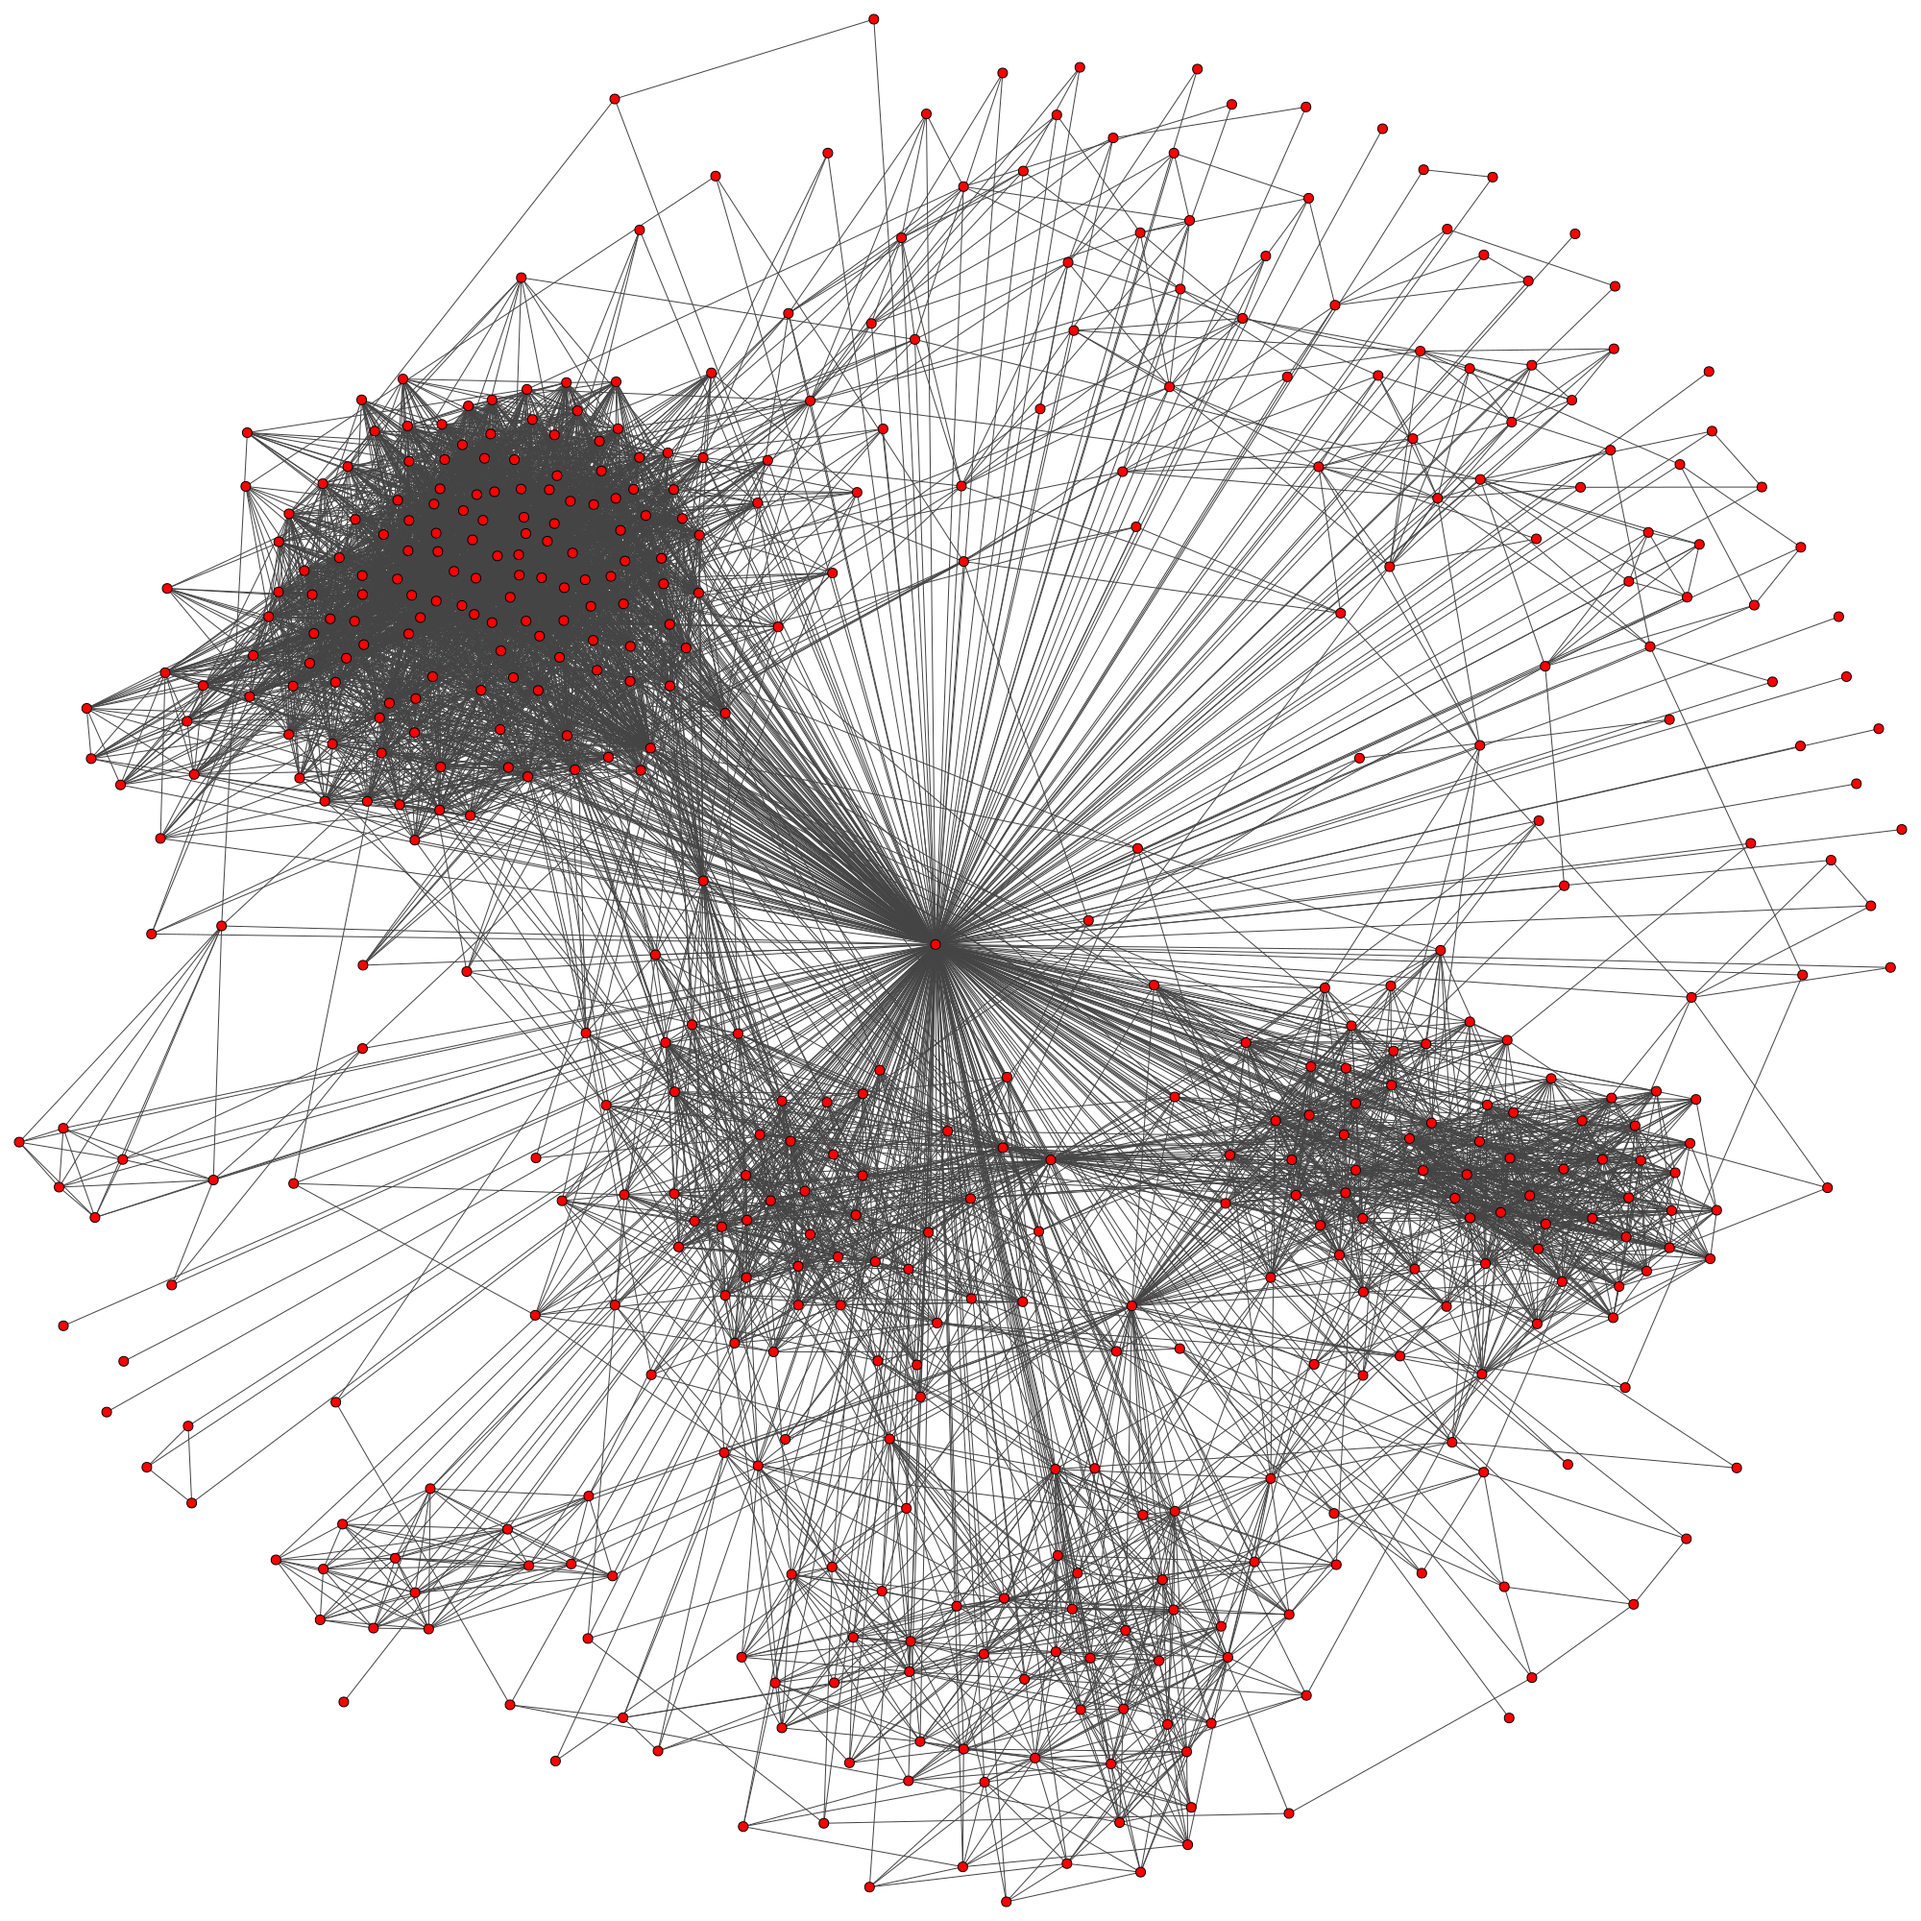
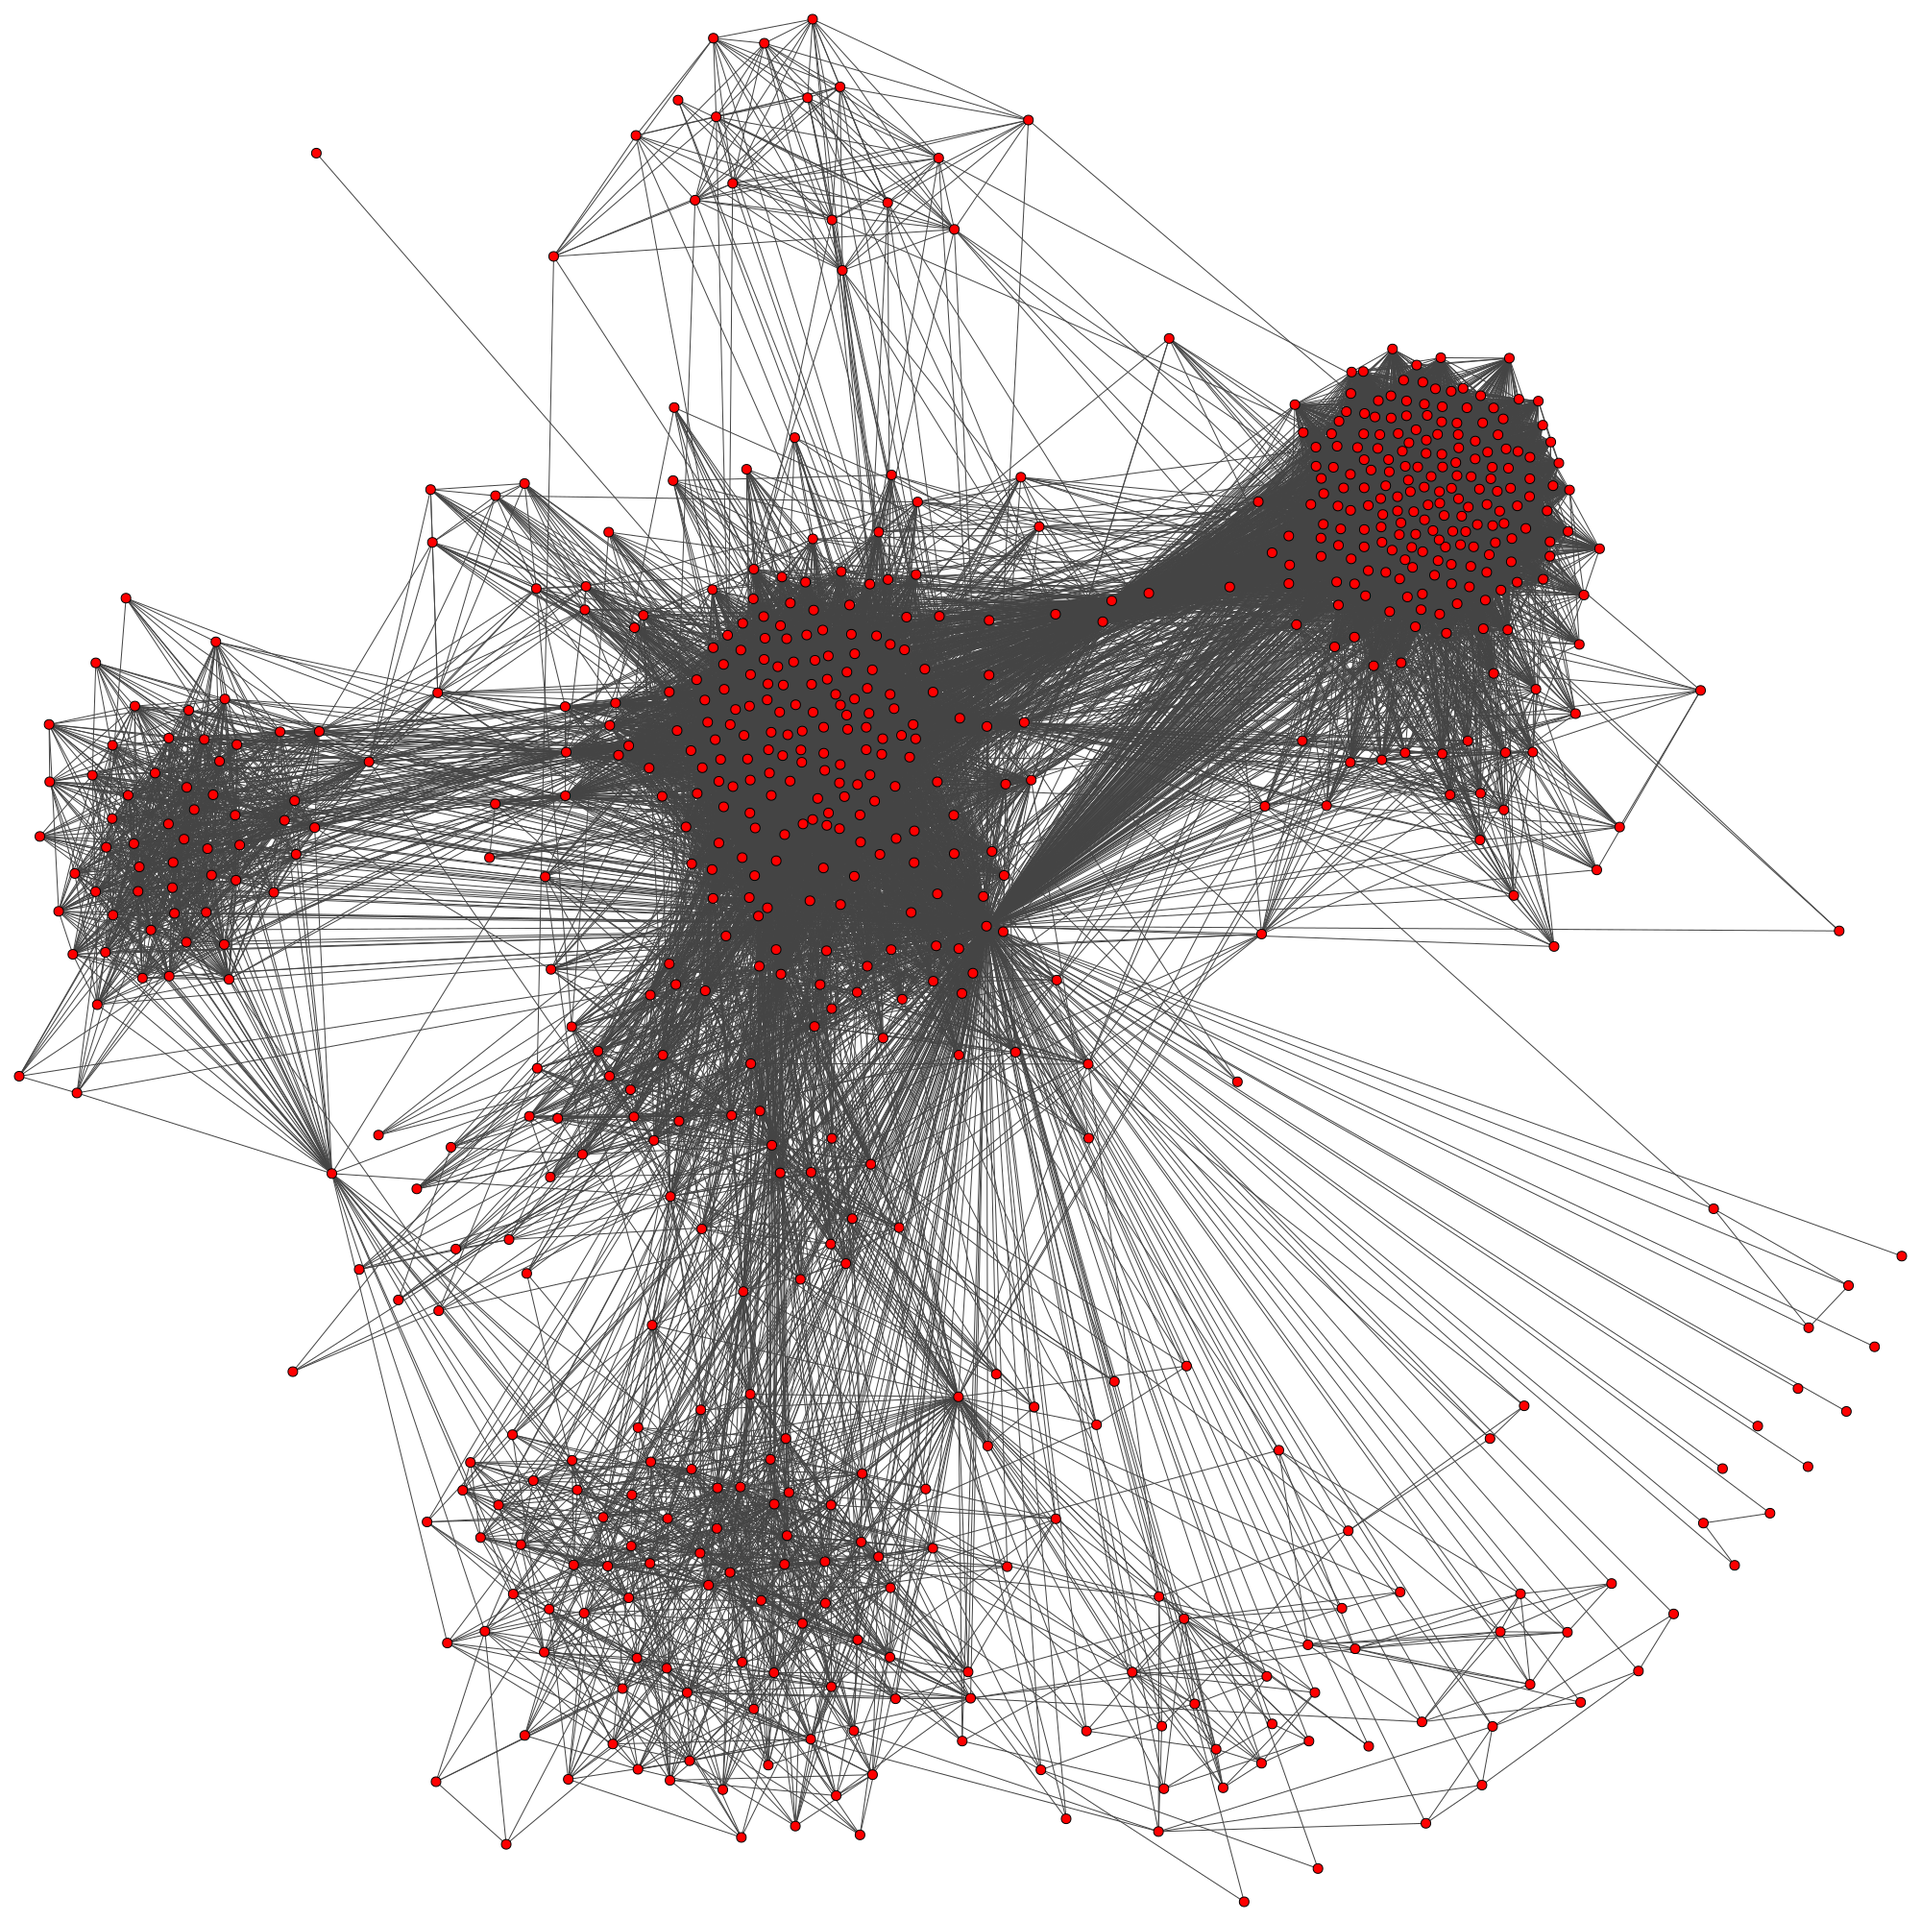
Implemented dynamic plot

diff --git a/Graph/graph.py b/Graph/graph.py
@@ -1,8 +1,13 @@
 import matplotlib.pyplot as plt
+from matplotlib import cm
 import igraph as ig
 import random
 from enum import Enum
 import math
+import os
+from PIL import Image
+import glob
+from pyvis.network import Network
 
 
 def cost_seed_set(S, cost):
@@ -14,6 +19,7 @@ def cost_seed_set(S, cost):
     :return: The total cost of the seed set.
     """
     return sum(cost(u) for u in S)
+
 
 def marginal_gain(v, S, fi):
     """
@@ -29,6 +35,8 @@ def marginal_gain(v, S, fi):
     return fi(S_with_v) - fi(S)
 
 # Seleziona il nodo che ha un rapporto marginal gain / costo del nodo  migliore
+
+
 def argmax(V, S, f, cost_function, **kwargs):
     """
     Select the node with the highest marginal gain to cost ratio.
@@ -41,6 +49,7 @@ def argmax(V, S, f, cost_function, **kwargs):
     :return: The node with the best marginal gain / cost ratio.
     """
     return max(set(V) - S, key=lambda v: marginal_gain(v, S, f) / cost_function(v, **kwargs))
+
 
 def get_subgraph(graph: ig.Graph, number: int):
     """
@@ -78,7 +87,7 @@ class Graph:
         F2 = 2
         F3 = 3
 
-    def __init__(self, filePath: str, budget: int, save_path:str, is_sub_graph=True, sub_graph_dim=100):
+    def __init__(self, filePath: str, budget: int, save_path: str, is_sub_graph=True, sub_graph_dim=100):
         """
         Initialize a Graph object with a graph loaded from a file.
 
@@ -93,7 +102,7 @@ class Graph:
 
         self.graph = self.full_graph
 
-        if is_sub_graph :
+        if is_sub_graph:
             self.graph = get_subgraph(self.full_graph, sub_graph_dim)
 
         if budget > self.graph.vcount():
@@ -127,7 +136,8 @@ class Graph:
         :raises TypeError: If nodeLabel is not an integer.
         """
         if not isinstance(nodeLabel, int):
-            raise TypeError(f"COst func degree type mismatch -> nodeLabel is {type(nodeLabel)}")
+            raise TypeError(
+                f"COst func degree type mismatch -> nodeLabel is {type(nodeLabel)}")
         node = self.graph.vs.find(name=nodeLabel)
         return node.degree() / 2
 
@@ -220,7 +230,7 @@ class Graph:
 
         # Calculate the seed set
         V = self.graph.vs["name"]
-        #print(f"Node set: {V}")
+        # print(f"Node set: {V}")
         # Insieme S_p=S_d=Empty
         S_p = set()
         S_d = set()
@@ -258,20 +268,23 @@ class Graph:
             case _:
                 return
 
-        #select_threshold = 1 #TODO: Define functions
+        # select_threshold = 1 #TODO: Define functions
 
-        #thresholds = {v.index: max(1, self.graph.degree(v) // 2) for v in self.graph.vs}
+        # thresholds = {v.index: max(1, self.graph.degree(v) // 2) for v in self.graph.vs}
 
         V = self.graph.vs["name"]
 
         U = set(V)
         S = set()
-        thresholds = {v: max(1, self.graph.vs.find(name=v).degree() // 2) for v in V}
+        thresholds = {v: max(1, self.graph.vs.find(
+            name=v).degree() // 2) for v in V}
 
         # Stato dinamico
-        delta = {v: self.graph.vs.find(name=v).degree() for v in V}  # δ(v) -> grado
+        delta = {v: self.graph.vs.find(name=v).degree()
+                 for v in V}  # δ(v) -> grado
         k = {v: thresholds[v] for v in V}  # k(v) -> threshold
-        neighbors = {v: set(x["name"] for x in self.graph.vs.find(name=v).neighbors()) for v in V}  # neighbors(v) -> Vicini
+        neighbors = {v: set(x["name"] for x in self.graph.vs.find(
+            name=v).neighbors()) for v in V}  # neighbors(v) -> Vicini
 
         while U:
             # Case 1: nodo già attivabile
@@ -303,7 +316,7 @@ class Graph:
             for u in neighbors[v]:
                 if u in U:
                     delta[u] -= 1
-                    neighbors[u].discard(v)       
+                    neighbors[u].discard(v)
             U.remove(v)
         self.seedSet = S
 
@@ -315,14 +328,13 @@ class Graph:
         :param args: Positional arguments for the method.
         :param kwargs: Keyword arguments for the method.
         """
-        if method == 'csg' :
+        if method == 'csg':
             self.csg(**kwargs)
-        elif method == 'wtss' :
+        elif method == 'wtss':
             self.wtss(**kwargs)
         else:
             print("Hai sbagliato HAHAHAHA")
             return
-
 
     def get_seed_set(self):
         """
@@ -338,7 +350,8 @@ class Graph:
 
         Requires the seed set to be computed first.
         """
-        if self.seedSet is None: return #Error
+        if self.seedSet is None:
+            return  # Error
 
         # Calc majority cascade
         V = set(range(self.graph.vcount()))
@@ -378,10 +391,10 @@ class Graph:
         Print the majority cascade steps with sorted node lists.
         """
         for t, influenced in enumerate(self.cascade):
-            print(f"Inf[S, {t}] = {sorted(influenced)}; |Inf[S, {t}]| = {len(influenced)}\n")
+            print(
+                f"Inf[S, {t}] = {sorted(influenced)}; |Inf[S, {t}]| = {len(influenced)}\n")
 
-
-    def save_plot(self, filename:str):
+    def save_plot(self, filename: str):
         """
         Save a visual representation of the graph to a file.
 
@@ -412,4 +425,52 @@ class Graph:
         plt.grid(True)
         plt.show()
 
+    def dyn_plot_cascade(self):
+        layout = self.graph.layout("fr")
+        
+        max_step = len(self.cascade)
+        colormap = cm.get_cmap("plasma", max_step + 1)
+        
+        def rgba_to_hex(rgba):
+            r, g, b, _ = rgba
+            return '#{:02x}{:02x}{:02x}'.format(int(r*255), int(g*255), int(b*255))
+        
+        output_dir = "plots/test"
+        
+        os.makedirs(output_dir, exist_ok=True)
+        
+        # calcola cumulativamente i nodi attivi fino a ciascuno step
+        cascata_cumulativa = []
+        attivi = set()
+        for step in self.cascade:
+            attivi |= step
+            cascata_cumulativa.append(attivi.copy())
+            
+        for t, attivi in enumerate(cascata_cumulativa):
+            colors = []
+            for v in range(self.graph.vcount()):
+                if v in attivi:
+                    c = colormap(t)  # colore secondo lo step corrente
+                    c_hex = rgba_to_hex(c)
+                else:
+                    c_hex = "#dddddd"  # grigio per non attivati
+                colors.append(c_hex)
 
+            ig.plot(
+                self.graph,
+                target=f"{output_dir}/step_{t:02d}.png",
+                layout=layout,
+                vertex_color=colors,
+                vertex_size=8,
+                #vertex_label=[str(v.index) for v in self.graph.vs],
+                bbox=(3000, 3000),
+                margin=40,
+            )
+        images = [Image.open(f) for f in sorted(glob.glob("plots/test/step_*.png"))]
+        images[0].save(
+            "diffusione.gif",
+            save_all=True,
+            append_images=images[1:],
+            duration=1000,  # durata di ogni frame in millisecondi
+            loop=0
+        )

diff --git a/main.py b/main.py
@@ -1,12 +1,13 @@
 from Graph.graph import Graph
 import os
 
+
 def main():
-    graph = Graph('graphs/facebook_data/facebook_combined.txt',
-                  1000,
+    """graph = Graph('graphs/facebook_data/facebook_combined.txt',
+                  350,
                   'graphs/',
                   is_sub_graph=True,
-                  sub_graph_dim=4093)
+                  sub_graph_dim=700)
     graph.calc_seed_set('csg',
                         select_cost=Graph.CostFuncType.RANDOM,
                         select_goal_fun=Graph.GoalFuncType.F1)
@@ -14,18 +15,24 @@ def main():
     print(f"Seed set (CSG): {graph.get_seed_set()}")
 
     graph.calc_majority_cascade()
-    
+
     print("#############################################################")
     graph.print_majority_cascade()
 
     graph.plot_majority_cascade()
 
-    graph.save_plot('testCSG.png')
+    graph.save_plot('testCSG.png')"""
 
     print("#############################################################")
 
+    graph = Graph('graphs/facebook_data/facebook_combined.txt',
+                  1000,
+                  'graphs/',
+                  is_sub_graph=True,
+                  sub_graph_dim=4039)
     graph.calc_seed_set('wtss', select_cost=Graph.CostFuncType.RANDOM)
-    print(f"Seed set (CSG): {graph.get_seed_set()}; |Seed set|: {len(graph.get_seed_set())}\n")
+    print(
+        f"Seed set (CSG): {graph.get_seed_set()}; |Seed set|: {len(graph.get_seed_set())}\n")
 
     graph.calc_majority_cascade()
     graph.print_majority_cascade()
@@ -33,8 +40,11 @@ def main():
     graph.plot_majority_cascade()
 
     graph.save_plot('testWTSS.png')
+    
+    graph.dyn_plot_cascade()
 
     print("#############################################################")
+
 
 if __name__ == '__main__':
     main()
